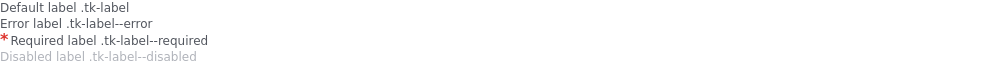
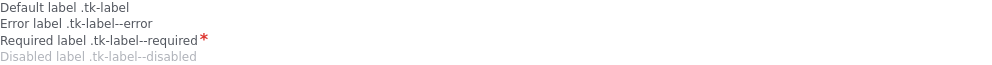
fix(textfield): revert * breaking change (#222)

Changed region(s): [[0.0, 0.5231, 0.2188, 0.7077]]

diff --git a/src/components/atoms/_label.scss b/src/components/atoms/_label.scss
@@ -6,10 +6,10 @@
   &--disabled:hover {
     color: getColor($--tk-input-color, disabledText);
   }
-  &--required::before {
+  &--required::after {
     content: "*";
     color: $--tk-label-required-color;
-    margin-right: toRem(2);
+    margin-left: toRem(2);
     font-size: toRem(16);
     font-weight: 600;
   }
